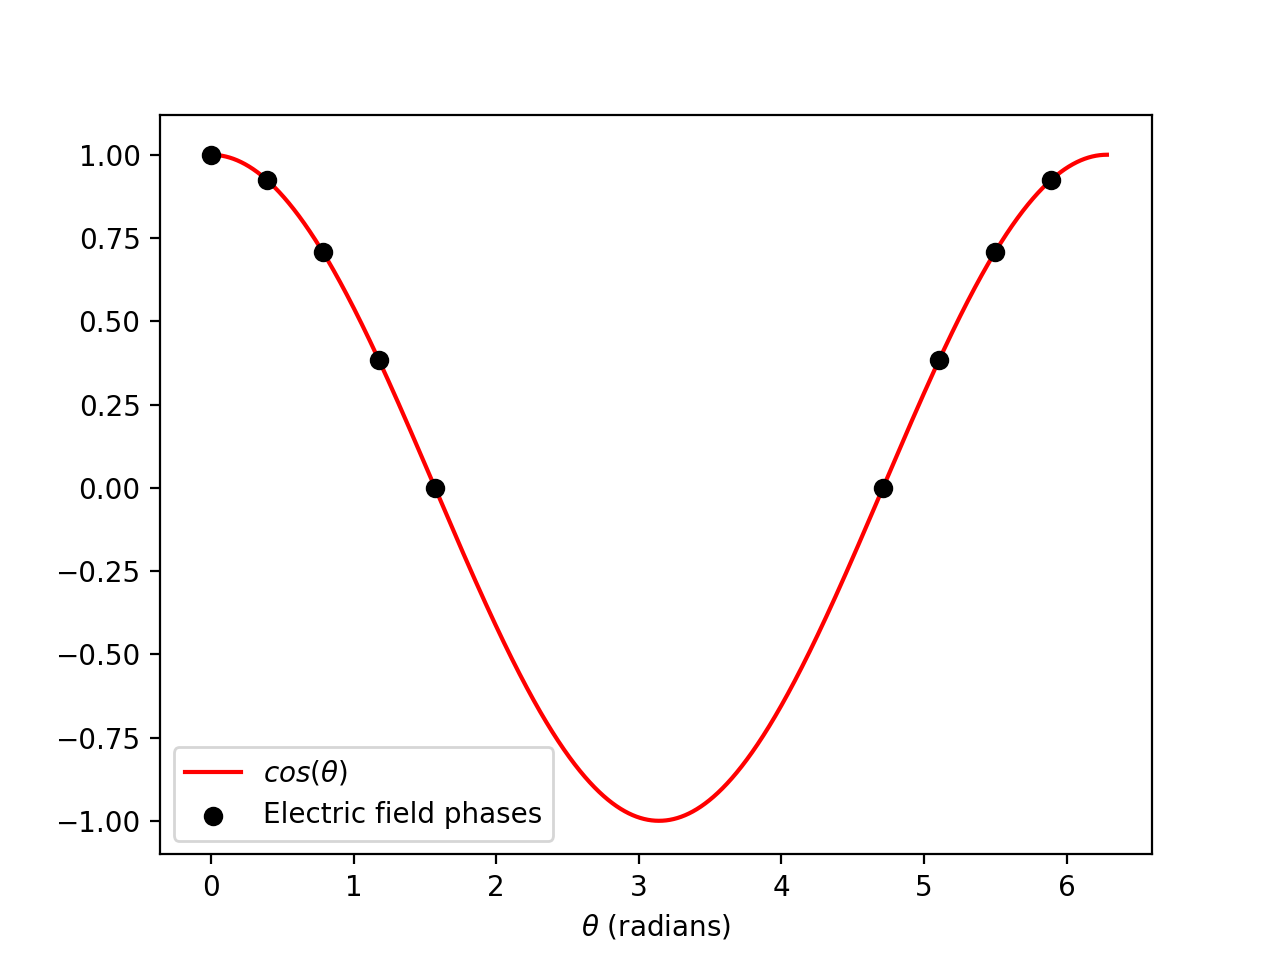
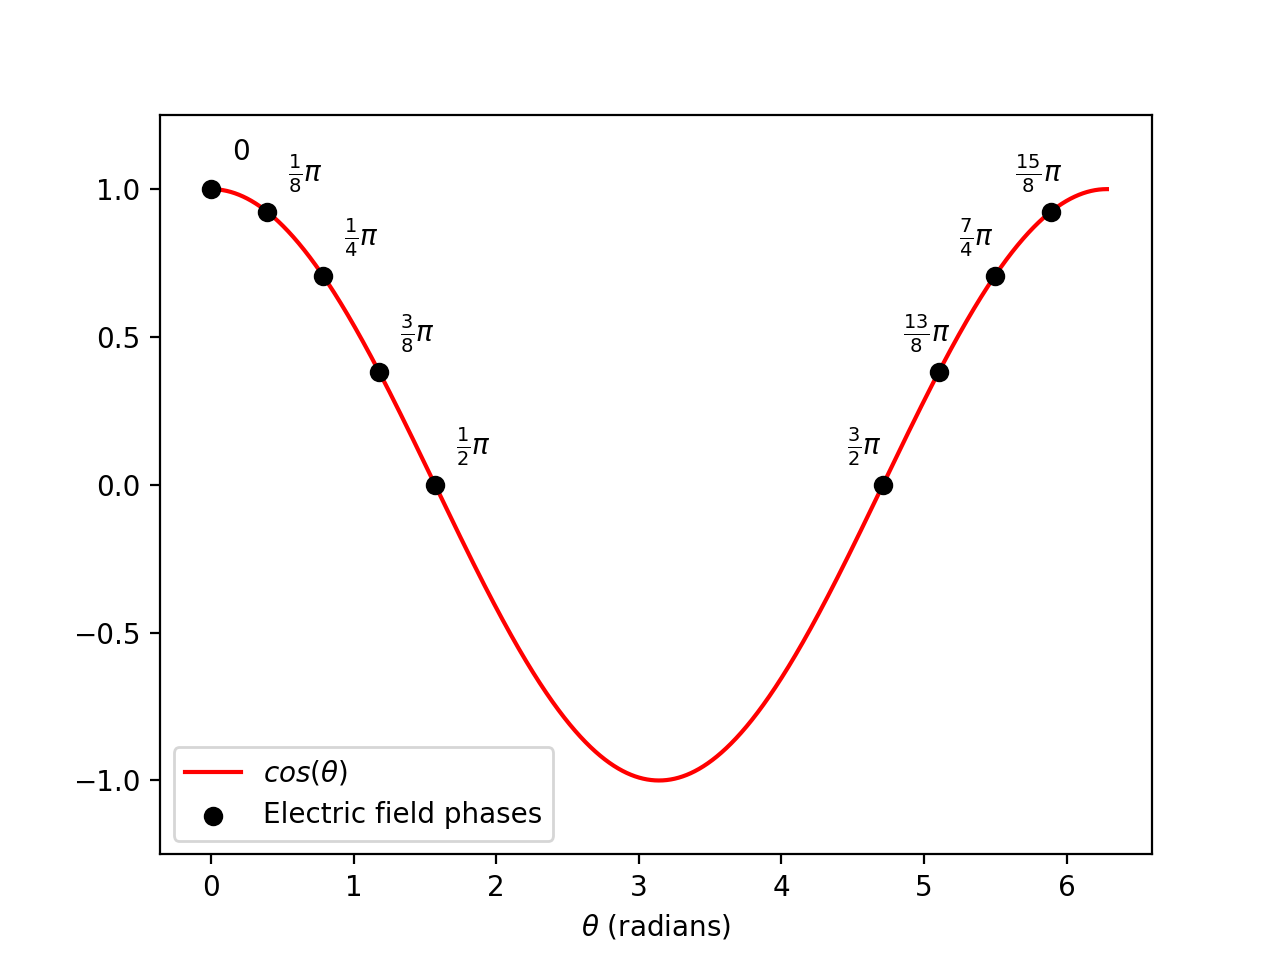
Updated phase plots

diff --git a/Project/main.py b/Project/main.py
@@ -7,16 +7,17 @@ from EMField import EMField
 from ProtonBunch import ProtonBunch
 
 field = EMField([.1,0,0], [0,0,1.6*10**(-5)], [-0.026,0.026], 7*np.pi/4) 
-protons_1 = ProtonBunch(0.0047)
-protons_2 = ProtonBunch(0.0047,1)
+protons_1 = ProtonBunch(0.0047,25)
+protons_2 = ProtonBunch(0.0047,25)
 protons = protons_1 + protons_2
 
 log.logger.info('Initial average kinetic energy: %s eV' % protons.KineticEnergy())
 log.logger.info('Initial average momentum: %s kg m/s' % protons.momentum())
 log.logger.info('Initial average position %s m' % protons.averagePosition())
-log.logger.info('Initial bunch spread: %s m' % protons.spread())
+log.logger.info('Initial bunch position spread: %s m' % protons.positionSpread())
+log.logger.info('Initial bunch energy spread: %s m' % protons.energySpread())
 
-time, deltaT, duration = 0, 10**(-5), 0.0042*5
+time, deltaT, duration = 0, 10**(-5), 0.0042*10
 
 inital_bunch = copy.deepcopy(protons)
 
@@ -35,15 +36,14 @@ while time <= duration:
 log.logger.info('simulation finished')
 log.logger.info('building lists')
 
-x,y,y_downSpread,x_upSpread,x_downSpread,y_upSpread = [],[],[],[],[],[]
+x,y,z,x_upSpread,x_downSpread = [],[],[],[],[]
 for bunch in Data:
     x.append(bunch.averagePosition()[0])
     y.append(bunch.averagePosition()[1])
+    z.append(bunch.averagePosition()[2])
 
-    x_downSpread.append(bunch.averagePosition()[0] - bunch.spread()[0])
-    x_upSpread.append(bunch.averagePosition()[0] + bunch.spread()[0])
-    y_downSpread.append(bunch.averagePosition()[1] - bunch.spread()[1])
-    y_upSpread.append(bunch.averagePosition()[1] + bunch.spread()[1])
+    x_downSpread.append(bunch.averagePosition()[0] - bunch.positionSpread()[0])
+    x_upSpread.append(bunch.averagePosition()[0] + bunch.positionSpread()[0])
 
 time_period = 2*const.pi*protons.particleMass / (protons.particleCharge*field.magneticMag())
 revolutions = np.linspace(0,round(timeSeries[-1]/time_period),len(timeSeries))
@@ -54,15 +54,15 @@ magneticX, magneticY = np.meshgrid(list(range(-3,4,1)), list(range(-3,3,1)))
 log.logger.info('Final average kinetic energy: %s eV' % protons.KineticEnergy())
 log.logger.info('Final average momentum: %s kg m/s' % protons.momentum())
 log.logger.info('Final average position %s m' % protons.averagePosition())
-log.logger.info('Final bunch spread: %s m' % protons.spread())
+log.logger.info('Final bunch position spread: %s m' % protons.positionSpread())
+log.logger.info('Final bunch energy spread: %s m' % protons.energySpread())
 
 log.logger.info('creating plots')
 
 plt.figure('Cyclotron Bunch with Spread')
 plt.axvspan(field.electricLowerBound,field.electricUpperBound,alpha=0.5, color='grey',label='Electric Field')
-plt.scatter(magneticX,magneticY,marker=r'$\odot$',s=95,color='black',label='Magnetic Field')
+#plt.scatter(magneticX,magneticY,marker=r'$\odot$',s=95,color='black',label='Magnetic Field')
 plt.plot(x,y,label=protons.bunchName,color='blue')
-#plt.fill_between(x,y_downSpread,y_upSpread, color='cornflowerblue',label="spread")
 plt.fill_betweenx(y, x_downSpread, x_upSpread, color='cornflowerblue')
 plt.scatter(final[0], final[1],color='blue')
 plt.xlabel(r'x  position  [m]')

diff --git a/Project/analyse_phase.py b/Project/analyse_phase.py
@@ -6,6 +6,19 @@ import copy
 from EMField import EMField
 from ProtonBunch import ProtonBunch
 
+"""
+This file will analyse several different electric field phase shifts. It will then plot the spread of
+the x-position of a proton bunch as well as the bunch's spread of kinetic energy against time. It will
+then fit a linear curve to the position and energy spreads so the variation of the spreads against time
+can be more easily visualised.
+
+The 'phase_data.npz' contains the position and kinetic energy spreads for a proton bunch containing
+100 protons over approximately 100 revolutions. If you do not have the file in the same location as
+this file, the simulation will run and generate it for you. I would recommend you reduce the size of the
+bunch and the simulation's duration as running the simulation for 100 revolutions with a 100 particle
+bunch size took just over six hours to run on my machine.
+"""
+
 phase_keys = [
     r'$0$', r'$\frac{1}{8} \pi$', r'$\frac{1}{4} \pi$', r'$\frac{3}{8} \pi$',
     r'$\frac{1}{2} \pi$', r'$\frac{5}{8} \pi$', r'$\frac{3}{4} \pi$', r'$\frac{7}{8} \pi$',
@@ -104,7 +117,13 @@ cosine = [np.cos(x) for x in theta]
 phase_points = [np.cos(x) for x in phases]
 plt.plot(theta, cosine, label=r'$cos(\theta)$', color='red',zorder=1)
 plt.scatter(phases, phase_points, label='Electric field phases',color='black',zorder=10)
+for x,y,name in zip(phases,phase_points,phase_dict.keys()):
+    if phases.index(x) < 5:
+        plt.text(x+0.15,y+0.1,name)
+    else:
+        plt.text(x-0.25,y+0.1,name)
+plt.ylim(-1.25,1.25)
 plt.xlabel(r'$\theta$ (radians)')
-plt.legend()
+plt.legend(loc='lower left')
 
 plt.show()
